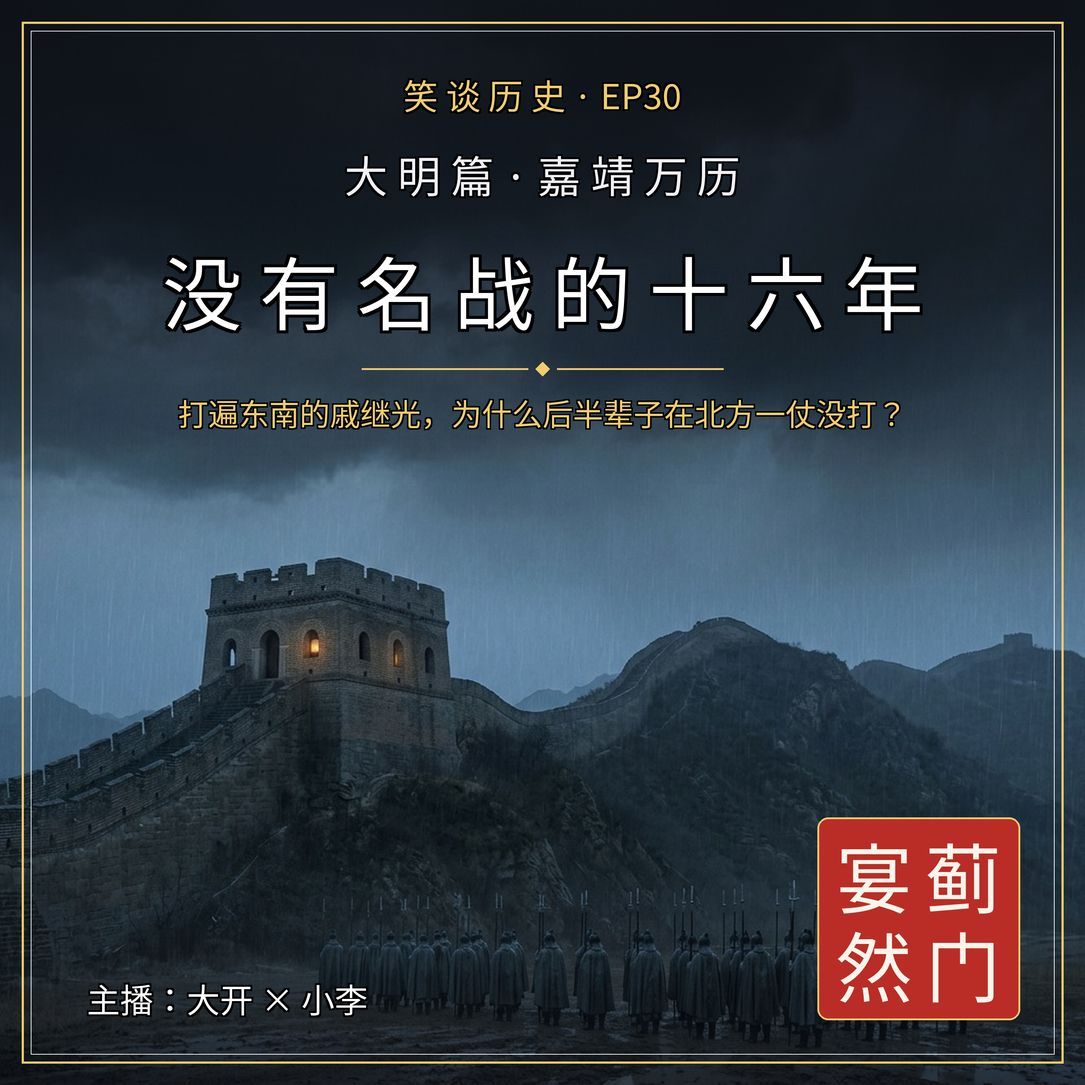
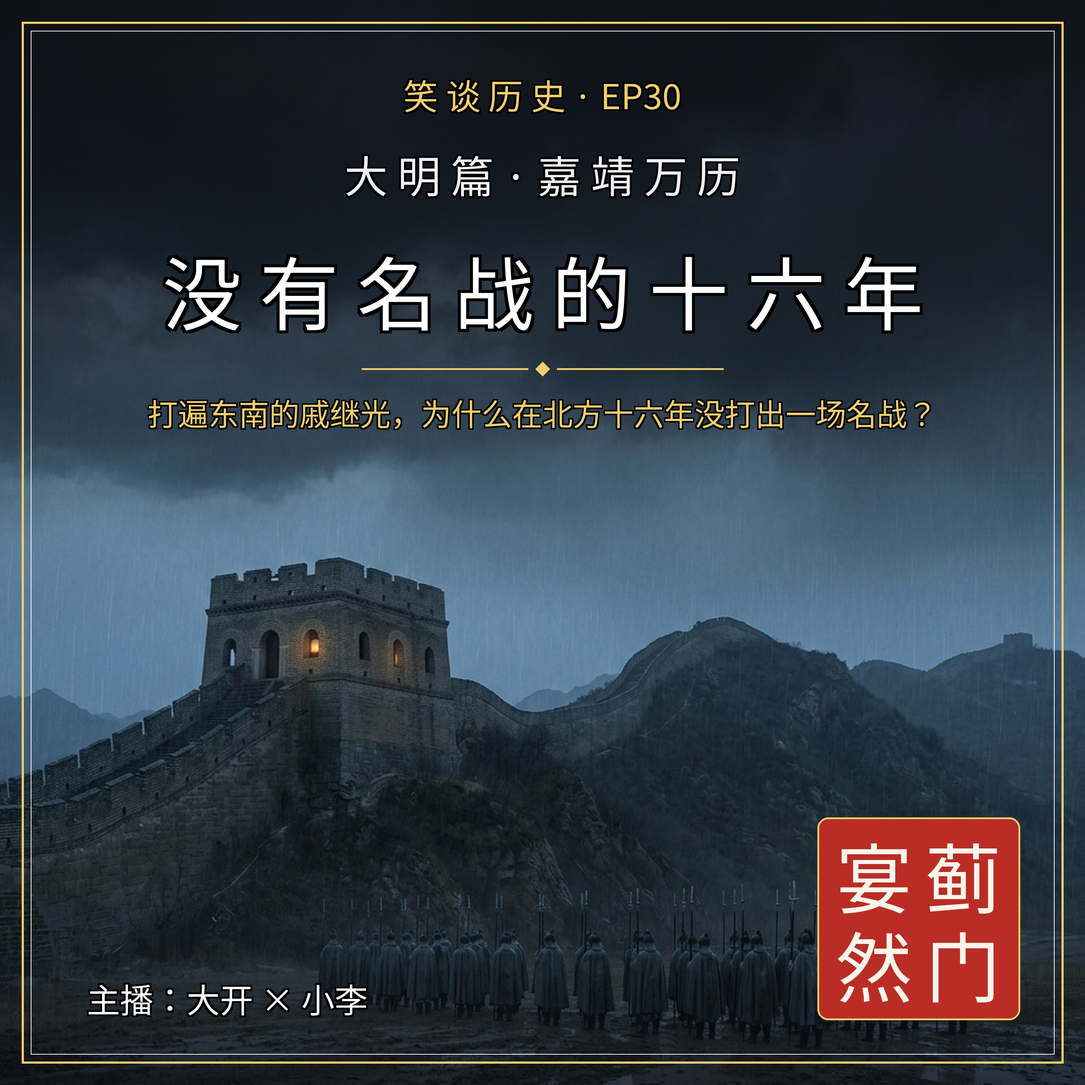
EP30 对抗审稿修订：主标题改为“没打出一场名战”并重出封面；王世贞—《明史》取材关系改为“未采”口径；墓志王氏离去与延医无资补立场、时序与连写因果；庚戌守九门降级

Changed region(s): [[0.124, 0.341, 0.868, 0.403]]

diff --git a/podcasts/EP30_戚继光/make_cover.py b/podcasts/EP30_戚继光/make_cover.py
@@ -96,7 +96,7 @@ def main():
     d.line([W//2+40, 1020, W//2+500, 1020], fill=GOLD, width=5)
     d.polygon([(W//2, 1000), (W//2+20, 1020), (W//2, 1040), (W//2-20, 1020)], fill=GOLD)
     
-    draw_text_with_shadow(d, (W//2, 1140), "打遍东南的戚继光，为什么后半辈子在北方一仗没打？", f_sub, GOLD, offset=4)
+    draw_text_with_shadow(d, (W//2, 1140), "打遍东南的戚继光，为什么在北方十六年没打出一场名战？", f_sub, GOLD, offset=4)
     
     # Bottom elements
     draw_text_with_shadow(d, (240, H - 240), "主播：大开 × 小李", f_host, WHITE, anchor="lm", offset=5)

diff --git a/podcasts/EP30_戚继光/史料核对.md b/podcasts/EP30_戚继光/史料核对.md
@@ -21,7 +21,7 @@
 | 2 | 生年：《墓志铭》记“戊子闰朔”生，即嘉靖七年（1528）闰十月初一；《年谱》卷十二记万历十五年“家严六十岁”（虚岁） | 《墓志铭》；《年谱》卷十二 | 墓志 / 年谱 | 可说生于1528年。卒时虚岁六十、周岁五十九 |
 | 3 | 课本熟脸：诗《韬钤深处》末两句“封侯非我意，但愿海波平”；《马上作》“南北驱驰报主情……一年三百六十日，多是横戈马上行” | 维基文库《韬钤深处》《马上作》（戚继光） | 诗作 | 可引诗句（诗句不算对话，可直接念）。《马上作》写作年份未核，不说是哪一年写的 |
 | 4 | 东南战功：练义乌兵三千，戚家军名闻天下；嘉靖四十年台州九战皆捷；四十一年入闽破横屿、牛田、兴化；四十二年平海卫之战先登，代俞大猷为总兵 | 《明史·戚继光传》 | 正史 | 只做背景，一两句带过，课本已讲烂 |
-| 5 | 庚戌之变（嘉靖二十九年，1550）：俺答兵临京师。《墓志铭》称这一年戚继光正在京城“待试武闱”，被部署守城、“戍九门”，并条陈守备便宜 | 《墓志铭》（文字有缺）；俺答犯京师见《明史·戚继光传》“自嘉靖庚戌俺答犯京师，边防独重蓟” | 墓志 / 正史 | 戚继光本人在场只见墓志，台词须说“据他朋友汪道昆写的墓志铭”。当时约二十二岁（周岁） |
+| 5 | 庚戌之变（嘉靖二十九年，1550）：俺答兵临京师。《墓志铭》称这一年戚继光正在京城“待试武闱”，敌大入，兵部“部列城守，简材官戍九门”，戚继光“条上便宜，部当其议”（2026-10-13 审稿复核：原文是兵部选材官守九门，没有明说戚继光本人守城门） | 《墓志铭》（文字有缺）；俺答犯京师见《明史·戚继光传》“自嘉靖庚戌俺答犯京师，边防独重蓟” | 墓志 / 正史 | 戚继光本人在场只见墓志，台词须说“据他朋友汪道昆写的墓志铭”。**只说他在京城、给兵部上了守城建议并被采纳**，不说他亲自守城门。当时约二十二岁（周岁） |
 | 6 | 蓟镇的分量：庚戌以后边防独重蓟镇，增兵益饷，骚动天下；总督王忬、杨选都因失律被杀；十七年间换了十位大将，“率以罪去” | 《明史·戚继光传》 | 正史 | 可直说。这是戚继光到任前的基准线，供小李算账 |
 | 7 | 隆庆元年给事中吴时来请召俞大猷、戚继光专训边卒，部议只用戚继光；隆庆二年五月以都督同知总理蓟州、昌平、保定三镇练兵事 | 《明史·戚继光传》；《明史·谭纶传》卷222 | 正史 | 可直说 |
 | 8 | 到任上疏：蓟门之兵虽多亦少，列“七害”（壮者给将领当差、老弱充数，参将游击成了驿使，营垒成了客栈，家丁盛而军心离等）及“不练之失六、虽练无益之弊四” | 《明史·戚继光传》 | 正史 | 可挑两三条转述，不要念全文 |
@@ -31,7 +31,7 @@
 | 12 | 隆庆五年秋敌台工成，精坚雄壮，二千里声势联接，诏予世荫 | 《明史·戚继光传》 | 正史 | 可直说 |
 | 13 | 《墓志铭》称修台官府只拨了约十万（缗），按工料算值一百二十万 | 《墓志铭》（文字有讹） | 墓志 | **只作参考，不入台词**或说成“他的朋友说花得很省”。数字不可报 |
 | 14 | 车营：一车四人推挽，战时结方阵，马步军居中；拒马器遏骑兵冲突；寇至火器先发，近则步军持拒马与长枪、狼筅推进，寇退则骑兵追击；另设辎重营；南兵为选锋。蓟门军容遂为诸边之冠 | 《明史·戚继光传》；《年谱》卷十二万历十年所附车营兵马数目 | 正史 / 年谱 | 可直说。年谱里的兵马数字是规划表，不报 |
-| 15 | 北方确有战斗：万历元年春，朵颜董狐狸、长昂到喜峰口索赏不得，杀掠诱敌，戚继光掩击，几乎擒获董狐狸；夏犯桃林、界岭，官军斩获颇多；次年春擒获长秃（董狐狸之弟），二部率亲族三百人叩关请罪，董狐狸穿素衣叩头求赦，受降后许通贡如故。“终继光在镇，二寇不敢犯蓟门” | 《明史·戚继光传》 | 正史 | **红线**：标题说“一仗没打”是修辞，台词必须交代打过这些小仗；准确说法是没有一场大会战、没有一场能写进课本的名战 |
+| 15 | 北方确有战斗：万历元年春，朵颜董狐狸、长昂到喜峰口索赏不得，杀掠诱敌，戚继光掩击，几乎擒获董狐狸；夏犯桃林、界岭，官军斩获颇多；次年春擒获长秃（董狐狸之弟），二部率亲族三百人叩关请罪，董狐狸穿素衣叩头求赦，受降后许通贡如故。“终继光在镇，二寇不敢犯蓟门” | 《明史·戚继光传》 | 正史 | **红线**：标题已改为“没打出一场名战”（2026-10-13 审稿），台词必须交代打过这些仗（另有隆庆年间“寇入青山口，拒却之”）；准确说法是没有一场大会战、没有一场能写进课本的名战 |
 | 16 | 也有失利：炒蛮入犯，参将汤克宽战死，戚继光被劾，未获罪；土蛮犯辽东，戚继光赴援，与辽东军拒退之 | 《明史·戚继光传》 | 正史 | 可直说，保持诚实 |
 | 17 | 正史给的“没有名战”的解释：蓟门守得太固，敌人无从进入，全部转去辽东，所以战功归了李成梁；戚继光“在南方战功特盛，北则专主守” | 《明史·戚继光传》 | 正史 | **全期核心证据**，可直说 |
 | 18 | 对照：李成梁力战却敌，功多至封伯；戚继光官至左都督，加太子太保、少保 | 《明史·张居正传》卷213；《明史·戚继光传》 | 正史 | 小李可以算这笔账：一个封了爵，一个没有。李成梁封宁远伯的年份本表未核，不报 |
@@ -41,7 +41,7 @@
 | 22 | 戚继光自己的说法（万历十五年建孝思祠祝文）：练兵八年后，将士有死心，车营可联营数十里；他计划出塞或援辽，上报政府，政府不主张；敌人也始终不犯蓟，于是“徒有封拜之具，无可措手之会”；批评者把他看作“权党” | 《年谱》卷十二，万历十五年七月孝思祠祝文 | 年谱（戚继光本人文字，家属收录） | 可转述，点明是他晚年写给祖宗的祝文。**这是全期标题问题的当事人答案** |
 | 23 | 另一面印证：《墓志铭》说戚继光曾上辅兵议，张居正以征伐当出自天子、皇帝年幼为由搁置；幼子戚兴国跋语也说其父本想练兵出塞，因朝议以神宗冲龄为由中止 | 《墓志铭》；《年谱》卷十二戚兴国跋 | 墓志 / 年谱 | 两条都出自戚家与友人一方，台词说“戚家和他的朋友都这么说”，不说成定论 |
 | 24 | 《明史》：戚继光在镇十六年，边备修饬，蓟门宴然；继任者沿用其成法，数十年无事；这也有赖徐阶、高拱、张居正先后倚任，张居正尤其事事与他商量，想为难他的人往往被调走；督抚谭纶、刘应节、梁梦龙都与他交好，动无掣肘 | 《明史·戚继光传》 | 正史 | “十六年”是按年号首尾计（隆庆二年五月到万历十一年二月，实约十四年九个月），小李可以掐出来，大开承认是虚算 |
-| 25 | **来源链**：《明史》“居正尤事与商确，欲为继光难者，辄徙之去”一句，几乎逐字见于王世贞《嘉靖以来首辅传》卷七；但王世贞原文前面还有一句：戚继光因南兵受北人嫉恨而惧，“乃时时购千金姬进之居正”。《明史》保留了后半句，删掉了前半句 | 王世贞《嘉靖以来首辅传》卷七（四库本，维基文库）；对照《明史·戚继光传》 | 笔记 / 正史 | 可作为证据链讲（《明史》采了王世贞，但删了送姬一句）。送姬一事本身**存疑**，只说有这个记载、修史者没采，不铺陈 |
+| 25 | **来源链**（2026-10-13 审稿复核原文后改写）：王世贞《嘉靖以来首辅传》卷七原文大意：戚继光移镇蓟门多带南兵，北人嫉之，“继光惧”；当时兵部尚书谭纶“与继光以财通”，谭纶“善用女术颇干居正”，张居正试之而验；“继光乃时时搆千金姬进之居正”，且所筹画多合张居正之意，“以是事与之商确，诸督抚大臣惟继光所择，欲为不利继光者即为之徙去”。《明史·戚继光传》作“居正尤事与商确，欲为继光难者，辄徙之去。诸督抚大臣如谭纶、刘应节、梁梦龙辈咸与善”。两段措辞高度相近（“事与商确”“徙之去”），且《明史·张居正传》叙小王子、李成梁一段也与《首辅传》同段相近，可推断《明史》取材于《首辅传》（可能经万斯同、王鸿绪《明史稿》转手，未核）。《明史》没有采用的是：谭纶以财相通与“女术”、送千金姬、“督抚惟继光所择”（被改写成督抚“咸与善”） | 王世贞《嘉靖以来首辅传》卷七（四库本，维基文库 https://zh.wikisource.org/wiki/嘉靖以來首輔傳_(四庫全書本)/卷7 ）；对照《明史·戚继光传》卷212、《张居正传》卷213 | 私家史传 / 正史 | 可作为证据链讲：说“《明史》这句话和王世贞的书几乎一样，但王世贞同一段里的送姬、谭纶以财相通、督抚由他挑，《明史》都没采”。**不说“修史者删了”**（无法证明是谁、在哪一稿删的），不说“逐字抄录”。王世贞与张居正有嫌隙，送姬一事本身**存疑**，不铺陈 |
 | 26 | 沈德符记：海狗肾（腽肭脐）出登州海中，张居正晚年姬侍多，专取以配药，“盖蓟帅戚继光所岁献”；张居正冬天热得戴不了貂帽，最终因此病亡 | 《万历野获编》卷二十一《滇南异产》条 | 笔记 | 红队定为荒淫八卦：**台词最多一句**，说明晚明笔记有此说、真伪存疑、正史不载；不讲药效细节 |
 | 27 | 沈德符记：张居正当国时，边将戚继光位至三孤、李成梁封五等，给张居正的禀帖都自称“门下沐恩小的某万叩头跪禀” | 《万历野获编》卷十七《武臣自称》 | 笔记 | 可用来讲依附关系，注明笔记；沈德符是讥讽口吻 |
 | 28 | 张居正嘱戚继光谦抑：万历六年张居正回江陵葬父前写信，说蓟事已托付门生梁梦龙，士大夫有说你坏话的他会替你辩解；要他务从谦抑、勿争体面、南北军情务须调适；并说鸟铳手挑矫健者五六人随行即可。另一信说戚继美所送锦帐收下为母祝寿，其余礼物退还 | 张居正《答蓟镇总兵戚南塘计边事》（书牍十）；《答总兵戚南塘》其二（书牍十） | 书信 | 可转述。退礼一信可作为与送姬说法的对照，但只能说明这一次退了礼，不能证明从未收礼 |
@@ -52,8 +52,8 @@
 | 33 | 广东任上：引退疏称广东兵权尽归有司，补一兵、造一械都由文官，将领不得干涉；万历十三年获准引退，冬十月回到蓬莱故里，对亲友说如今北虏款塞、南交来庭，太平无事，哪里还用得着武臣 | 《年谱》卷十二万历十三年条 | 年谱 | 可转述，注明年谱 |
 | 34 | 罢归后：御史傅光宅上疏推荐，反被夺俸；《年谱》说朝议正欲起用、疏方上，他就病了 | 《明史·戚继光传》；《年谱》卷十二万历十五年条 | 正史 / 年谱 | 可直说 |
 | 35 | 王氏早年：戚继光妻王氏出身王万户家（《墓志铭》“内子出王万户”）；初袭职时家贫，买一条鱼，早上给他鱼头、中午给他鱼尾，自己一口不吃，晚上把鱼腹留给他；他说你饿着肚子成全我，甘苦怎能不同，她说妾逸君劳、君良妾苦，礼当如此。戚继光把她比作孟光 | 《墓志铭》 | 墓志 | 可转述，注明出自墓志铭。网文“自己只吃鱼头鱼尾”是误读，原文是把头尾也让给了丈夫，见第三节 |
-| 36 | **王氏离去（复核点结论）**：王氏所生儿子都夭折；戚继光暗纳陈姬（生祚国、安国、报国）、沈姬（生昌国）、杨姬（生辅国）。有人向王氏泄露诸姬多子，她每天拿着刀要找他算账；戚继光衣内穿甲进入寝门，号啕着向祖宗哭诉，王氏也扔下刀抱头痛哭，于是把安国过继到自己名下。安国娶妻后夭折，王氏心灰意冷，把家中积蓄全部装车运回王家 | 《墓志铭》“一品鸷而张……囊括其所蓄，辇而归诸王” | 墓志 | **出处是汪道昆《墓志铭》，不是《年谱》**：《年谱》卷十二全卷未提王氏离去，只在祝文中说自己“先乏子，乃出奇计，苦心万状，今有五子一侄”。台词注明出自墓志铭；拿刀一段只转述一次，不渲染。杨姬之子墓志作“辅国”，《年谱》作“兴国”（万历十一年四月生），以年谱为准，台词不报名字 |
-| 37 | 晚年贫病：他每年散千金给门客，急流勇退后家计骤然衰落，到请医治病都没钱 | 《墓志铭》“岁散千金徇客，急归而暴折，即延医治病，且无资” | 墓志 | 可转述。**注意**：墓志把贫困归因于他自己好客散财，不只是朝廷亏待 |
+| 36 | **王氏离去（复核点结论）**：王氏所生儿子都夭折；戚继光暗纳陈姬（生祚国、安国、报国）、沈姬（生昌国）、杨姬（生辅国）。有人向王氏泄露诸姬多子，她每天拿着刀要找他算账；戚继光衣内穿甲进入寝门，号啕着向祖宗哭诉，王氏也扔下刀抱头痛哭，于是把安国过继到自己名下。安国娶妻后夭折，王氏心灰意冷，把家中积蓄全部装车运回王家 | 《墓志铭》“一品鸷而张……囊括其所蓄，辇而归诸王” | 墓志 | **出处是汪道昆《墓志铭》，不是《年谱》**。审稿补充（2026-10-13）：①墓志开篇自述是“胄子祚国布状”请铭，祚国是陈姬所生，王氏“鸷而张”的形象来自庶子一方提供的行状，台词须交代这是戚家（庶子）一方的说法；②墓志没有给王氏离去的年份，只是放在罢归登州之后、去世之前叙述；而《年谱》所载万历十五年七月祝文仍称“今有五子一侄”，与安国已殇的先后关系对不上，离去的确切时间**存疑**，台词不报年份、不说“瞒了十几年”；③原文是“囊括其所蓄，辇而归诸王”，是把积蓄运回王家，王氏本人是否随之离家原文未明说，台词说“把家里积蓄装车运回了娘家”。《年谱》卷十二全卷未提王氏离去，只在祝文中说自己“先乏子，乃出奇计，苦心万状，今有五子一侄”。台词注明出自墓志铭；拿刀一段只转述一次，不渲染。杨姬之子墓志作“辅国”，《年谱》作“兴国”（万历十一年四月生），以年谱为准，台词不报名字 |
+| 37 | 晚年贫病：墓志紧接王氏把积蓄运回王家之后写：他每年散千金给门客，仓促罢归后家计骤然衰落，到请医治病都没钱 | 《墓志铭》“囊括其所蓄，辇而归诸王。少保岁散千金徇客，急归而暴折，即延医治病，且无资” | 墓志 | 可转述。**注意**（2026-10-13 审稿修订）：墓志是三件连写——积蓄被王氏运走、他自己好客散财、仓促罢归——不只是朝廷亏待，也不能单归因于散财或单怪王氏。《明史》不载其贫；《年谱》戚兴国跋另说他死于消渴（“食少事繁，劳神太甚，致消渴之恙以终”） |
 | 38 | 去世：万历十五年十二月，蜡日（一说腊月初八，一说冬至后第三戌日即十二月二十日）前一天病作，鸡叫三遍时去世；《年谱》说家人请他交代后事，他一言不发 | 《墓志铭》“丁亥始及耆蜡，日鸡三号”；《年谱》卷十二 | 墓志 / 年谱 | 日期只说万历十五年腊月、公历已是1588年初；具体哪一天存疑 |
 | 39 | 身后：万历十七年二月戚祚国入京请恤，诏准祭葬；《墓志铭》称应得的荫子记录被经手的旧记室侵吞，诸子只袭祖职指挥佥事 | 《年谱》卷十二万历十七年条；《墓志铭》 | 年谱 / 墓志 | 可一句带过 |
 | 40 | 余波：幼子戚兴国（万历十一年生，五岁丧父）于庚申年（1620）写跋，说抗倭的功劳是横草熟釜之功，北边的功劳是曲突徙薪之业；一千二百座敌楼、二千里塞垣，到今天五十多年朝廷没有北顾之忧，未有敌楼之前敌骑曾直入渔阳、突古北口逼近京城 | 《年谱》卷十二戚兴国跋 | 年谱 | **结尾可用**，注明是儿子写的 |
@@ -63,7 +63,7 @@
 
 ## 二、存疑与冲突（两说并陈）
 
-1. **“一仗没打”是不是真的**：不是。《明史》记了万历元年喜峰口掩击董狐狸、擒长秃、炒蛮入犯汤克宽战死、援辽等（#15、#16）。准确说法：北方十六年没有大会战，《明史》原话是“北则专主守”（#17）。标题可以用，台词必须修正它。
+1. **“一仗没打”是不是真的**：不是（原拟标题因此于2026-10-13改为“没打出一场名战”）。《明史》记了万历元年喜峰口掩击董狐狸、擒长秃、炒蛮入犯汤克宽战死、援辽等（#15、#16）。准确说法：北方十六年没有大会战，《明史》原话是“北则专主守”（#17）。标题已改，台词照此口径。
 2. **为什么没打大仗**：三种解释并存。
    - 《明史》：守得太固，敌人改去辽东（#17）；
    - 张居正：上级本来就要求拒守为主，贼不得入即为上功（#21）；
@@ -71,7 +71,7 @@
    三者并不矛盾，但侧重不同。大开可以说自己的倾向，小李可以抓住“到底是不能打还是不让打”追问。
 3. **戚继光和张居正的关系**：正史说倚任与庇护（#24）；王世贞说送千金姬（#25）；沈德符说岁献海狗肾、禀帖自称门下小的（#26、#27）；张居正书信里有退礼（#28）。送姬、送药两条都是与张居正有过节或隔代的晚明笔记，《明史》修史者显然读过王世贞却没采送姬一句。节目处理：依附关系是实的（书信、自称、半夜递信都有据），送姬送药存疑，各说一句不展开。
 4. **王氏离去的出处**：红队复核点“出处是年谱还是笔记”——**答：出自汪道昆《墓志铭》**，属同时代老友所撰墓志，不是笔记，可信度较高；家属所编《年谱》卷十二对此只字未提，只有戚继光本人一句“乃出奇计，苦心万状”隐约对应（#22、#36）。网传“王氏休夫”“提刀闯军营”“戚继光跪地请夫人阅兵”“杀鸡炖汤”等细节，在《墓志铭》《年谱》卷十二、《野获编》中都没有找到，见第三节。
-5. **晚年贫病的原因**：《明史》只说罢归、被荐反夺俸、遂卒；《墓志铭》说他岁散千金给门客，家计骤衰，延医无资（#37）。“两袖清风、无私报国”的说法见山东地方志网站引董承诏《戚大将军孟诸公小传》“四提将印……囊无宿镪，惟集书数千卷”（二手，未见原书）。节目说法：穷是真的，原因里有他自己好客散财的一部分。
+5. **晚年贫病的原因**：《明史》只说罢归、被荐反夺俸、遂卒；《墓志铭》先写王氏把积蓄运回王家，再写他岁散千金给门客、家计骤衰，延医无资（#37）。“两袖清风、无私报国”的说法见山东地方志网站引董承诏《戚大将军孟诸公小传》“四提将印……囊无宿镪，惟集书数千卷”（二手，未见原书）。节目说法：穷是真的（只有墓志一说），墓志列的原因里有积蓄被运走，也有他自己好客散财。
 6. **在镇年数**：《明史》《年谱》都说十六年，实际约十四年九个月（#24），按年号首尾虚算。
 7. **去世日期**：蜡日两解，相差十二天（#38）；维基百科作十二月二十日（1588年1月17日），山东地情网取腊月初八（1588年1月5日）。台词只说腊月。
 8. **雨中站立的年份**：两书未系年（#11）。

diff --git a/podcasts/EP30_戚继光/大纲.md b/podcasts/EP30_戚继光/大纲.md
@@ -1,4 +1,4 @@
-# EP30 节目大纲：《打遍东南的戚继光，为什么后半辈子在北方一仗没打？》
+# EP30 节目大纲：《打遍东南的戚继光，为什么在北方十六年没打出一场名战？》
 
 > 2026-10-13 编写。全期发现路径先行，四个段落按因果咬合。证据编号对应 `史料核对.md` 第一节序号。时长为估算（约 300 字/分钟，成片约 25 分钟，净台词约 7,000–8,000 字），不是配额。
 
@@ -18,10 +18,10 @@
      → 小李掐出两笔账：“十六年”是虚算（#24）；李成梁封了伯，戚继光没有（#18）
      → 《明史》的解释：守得太固，敌人去了辽东，战功归了李成梁，北则专主守（#17）
      → 张居正的信：贼不得入即为上功（#21）；可戚继光自己晚年说，他想出塞援辽，政府不让，徒有封拜之具（#22、#23）。
-   判断变化：“一仗没打”是不对的说法，准确是没有名战；而且这有一半是上面定下的打法。
+   判断变化：他在北方不是没打仗，是没有名战；而且这有一半是上面定下的打法。
    疑问：谁在替这种拿不出首级的人担保？
    ↓
-[三] 张居正怎么护着他：想为难他的人被调走（#24）→ 这句话从哪来：王世贞原文前面还有送千金姬一句，《明史》删了（#25）；沈德符的海狗肾一句带过（#26）
+[三] 张居正怎么护着他：想为难他的人被调走（#24）→ 这句话从哪来：措辞和王世贞《嘉靖以来首辅传》高度相近，王世贞原文还有谭纶以财相通、戚继光送千金姬、督抚由他挑选，这些《明史》都没采（#25）；沈德符的海狗肾一句带过（#26）
      → 关系有多近：禀帖自称门下小的（#27）、葬父前专门写信安排、只要五六个鸟铳手（#28）、半夜开门递信（#29）
      → 小李与大开的分歧：自己把自己绑死，还是体制里做事的唯一办法
      → 张居正死后半年，张鼎思一言，调广东（#30）；裨将流言、蓟人罢市送行（#31，年谱）；《明史》赞语：当国者在则成，言官当道则废（#32）。
@@ -41,7 +41,7 @@
   1. 自己掐出隆庆二年到万历十一年不满十五年，“十六年”是虚算；
   2. 算出李成梁封伯、戚继光没封，说“封侯非我意”这句诗后来成了真；
   3. 听到禀帖自称门下小的、半夜递信，认为他是自己把自己绑在了张居正的船上，换个首辅就该沉；
-  4. 王氏的事站王氏一边：瞒了十几年、生了五个儿子，换谁都会走。
+  4. 王氏的事站王氏一边：丈夫背着她纳了三个妾、生了五个儿子，换谁都受不了；她还会提醒，墓志的材料来自妾生的长子戚祚国，王氏被写成“鸷而张”，是对方的说法（#36）。
 - **不强行统一的分歧**：依附张居正是不得已的做事成本，还是戚继光自己的选择和失算。结尾不判对错。
 
 ## 第一段：长城边上的雨（约 0:00-6:00）
@@ -56,7 +56,7 @@
 ## 第二段：没有名战的账本（约 6:00-13:00）
 - 敌台：一瑕则百坚皆瑕，五丈三层百人，先建一千二百座（#10）；浙兵就是为这个调来的，回扣冷开场；隆庆五年秋台成（#12）。
 - 车营：车四人推、结方阵、火器先发、拒马长枪、骑兵追击（#14），只讲个大概。
-- 打过的仗（#15、#16）：大开主动修正“一仗没打”。
+- 打过的仗（#15、#16）：大开主动交代北方也打过仗，只是没有一场名战（扣标题）。
 - 小李掐账：十六年是虚算（#24）；李成梁封伯（#18）。
 - 《明史》的解释（#17）+ 八事考核（#19）；墓志说不战无从记功（#20，注明文字残缺）。
 - 张居正的信：贼不得入即为上功，援辽非急（#21）。
@@ -64,7 +64,7 @@
 
 ## 第三段：靠山（约 13:00-20:00）
 - 《明史》：张居正事事与他商量，想为难他的人就调走（#24）。
-- 证据链：这句话几乎原样抄自王世贞，王世贞前面还有送千金姬一句，修史者删了（#25）；沈德符另有一条岁献海狗肾的笔记，一句带过、存疑（#26）。
+- 证据链：这句话和王世贞《嘉靖以来首辅传》措辞高度相近，应是取材于它（可能经《明史稿》转手）；王世贞原文把这层关系归因于谭纶以财相通、戚继光时时送千金姬，还说督抚由戚继光挑选，《明史》一概没采，并把“惟继光所择”换成了“咸与善”（#25，只说“修史者没采”，不说“删了”）；沈德符另有一条岁献海狗肾的笔记，一句带过、存疑（#26）。
 - 关系有多近：门下沐恩小的（#27）；张居正嘱他谦抑、南北调和、葬父前安排梁梦龙、只要五六个鸟铳手、退了礼只收锦帐（#28）；抄家时被审问的半夜递信（#29）。
 - **分歧**：小李认为是自己绑死自己；大开认为这是体制下做事的成本，代价他自己付了。不统一。
 - 张居正卒（EP06 已讲，一句话）；半年后张鼎思上言，调广东（#30）；年谱说是旧部流言，蓟人罢市送行（#31）。
@@ -75,7 +75,7 @@
 - 鱼的故事（#35），带出王氏。
 - 王氏离去（#36）：出处交代清楚是汪道昆写的墓志铭；拿刀一段只转述一次；小李站王氏一边，大开不替戚继光辩护。
 - 传说溯源一句：网上怕老婆段子多数找不到出处（第三节）。
-- 散千金、延医无资（#37）；傅光宅荐反夺俸（#34）。
+- 积蓄被王氏运走、他自己每年散千金给门客、罢归后家计骤衰，到请医生都没钱（#37，墓志是把这几件连着写的，不单归因于哪一条）；傅光宅荐反夺俸（#34）。
 - 万历十五年腊月，鸡叫三遍，后事一句没交代（#38）。
 - 余波：小儿子五岁丧父，三十多年后写跋，曲突徙薪、五十余年无北顾之忧（#40）。
 - 停在日期上：崇祯二年十月，大清兵入大安口（#41）。不总结，不升华。

diff --git a/podcasts/EP30_戚继光/写作交接.md b/podcasts/EP30_戚继光/写作交接.md
@@ -3,7 +3,7 @@
 > 前置资料已备齐：选题卡、史料核对、大纲、封面。脚本请由新的写手按大纲动笔。
 
 ## 标题
-- 主选：《打遍东南的戚继光，为什么后半辈子在北方一仗没打？》（封面主标题为“没有名战的十六年”，印章为“蓟门宴然”）
+- 主选：《打遍东南的戚继光，为什么在北方十六年没打出一场名战？》（封面主标题为“没有名战的十六年”，印章为“蓟门宴然”。原拟“后半辈子在北方一仗没打”与史实不符，2026-10-13 对抗审稿改定）
 - 备选：《十六年没有一场名战：戚继光守了一辈子最长的岗》
 - 备选：《张居正死后半年：戚继光的北方十六年是怎么结束的》
 
@@ -11,14 +11,14 @@
 - 冷开场是三千浙兵在蓟镇城外的大雨里站了大半天。要先讲明白，这是《明史·戚继光传》的写法，年份不报。
 - 让小李自己算账：“十六年”其实不满十五年；李成梁封了伯，戚继光没有。
 - 三种解释并讲为什么没有名战：《明史》说守得太固、敌人改去了辽东；张居正写信说贼进不来就是头功；戚继光晚年给祖宗写的祝文里说，他想出塞援辽，朝廷不批，手里有封爵的本事，没有下手的机会。
-- 证据链：《明史》里张居正替他调走对头那句，是从王世贞书里抄来的；王世贞那句前面还有送千金姬的半句，修史者删了。
+- 证据链：《明史》里张居正替他调走对头那句，和王世贞《嘉靖以来首辅传》措辞高度相近，应是取材于它；王世贞原文还有谭纶以财相通、戚继光时时送千金姬、督抚由他挑选几层，《明史》都没采。台词说“修史者没采”，不说“删了”（可能经《明史稿》转手，无法证明是谁删的）。
 - 落点：小儿子写的跋，把父亲北边的功劳叫作曲突徙薪，说五十多年朝廷没有北顾之忧。写这句话九年后，大清兵从蓟镇的大安口进来。只报日期，不评论。
 
 ## 红线与存疑
-1. “一仗没打”是标题修辞，不是事实。台词里必须交代他在北方打过小仗：万历元年在喜峰口差点擒获董狐狸，后来擒了长秃，二部叩关请罪；也有参将汤克宽战死、他被弹劾的失利（史料核对 #15、#16）。准确说法是没有一场大会战、没有名战，《明史》原话是北则专主守。
-2. 王氏离去的出处是汪道昆写的《孟诸戚公墓志铭》，不是家属编的《年谱》，也不是笔记（#36）。台词里要说出自墓志铭。拿刀、穿甲、抱头痛哭只转述一次，不渲染；不用“休夫”“离婚”这类词，原文只说她把积蓄装车运回了王家。网上流传的怕老婆段子（请夫人阅兵、杀鸡炖汤、提刀闯军营、王氏带兵守城）没有找到原始出处，不用。
-3. 送千金姬（王世贞）、岁献海狗肾（沈德符）都是晚明笔记，真伪存疑，《明史》没采。各最多一句，标明出处，不讲细节（#25、#26）。
-4. 晚年穷困不能全怪朝廷：墓志铭写他每年散千金给门客，急流勇退后家计骤衰，到请医治病都没钱（#37）。
+1. 标题说的是“没打出一场名战”，不是没打仗。台词里必须交代他在北方打过仗：万历元年在喜峰口差点擒获董狐狸，后来擒了长秃，二部叩关请罪；也有参将汤克宽战死、他被弹劾的失利（史料核对 #15、#16）。准确说法是没有一场大会战、没有名战，《明史》原话是北则专主守。
+2. 王氏离去的出处是汪道昆写的《孟诸戚公墓志铭》，不是家属编的《年谱》，也不是笔记（#36）。台词里要说出自墓志铭；还要知道墓志的材料来自妾生的长子戚祚国提供的行状，王氏“鸷而张”是戚家一方的说法。墓志没给王氏离去的年份，只是放在罢归登州之后叙述，台词不说具体哪一年，也不说“瞒了十几年”。拿刀、穿甲、抱头痛哭只转述一次，不渲染；不用“休夫”“离婚”这类词，原文只说她把积蓄装车运回了王家。网上流传的怕老婆段子（请夫人阅兵、杀鸡炖汤、提刀闯军营、王氏带兵守城）没有找到原始出处，不用。
+3. 送千金姬（王世贞私撰《嘉靖以来首辅传》，作者与张居正有嫌隙）、岁献海狗肾（沈德符笔记）都是晚明私家记载，真伪存疑，《明史》没采。各最多一句，标明出处，不讲细节（#25、#26）。
+4. 晚年穷困不能全怪朝廷：墓志铭是连着写的，先写王氏把积蓄装车运回娘家，再写他每年散千金给门客、仓促罢归后家计骤衰，到请医治病都没钱（#37）。台词不单归因于其中任何一条。
 5. 1629 年大安口之变只报日期和地点，不说成“戚继光一走长城就破了”，中间隔了四十多年（#41）。
 6. 年份和日期：在镇“十六年”是虚算；雨中站立没有年份；去世日期只说万历十五年腊月（公历已是 1588 年初），具体哪天两说；张居正那封“贼不得入”的信写于约万历五六年（按信中“经营蓟事十年”推算）。
 7. 与 EP06 的口径：EP06 讲过张居正支持戚继光守蓟门，本期不重讲张居正的改革和抄家。EP06 台词里“张居正扣下弹劾戚继光的奏折”“戚继光开放互市”两处说法，本次没找到史料支持，本期不要重复，也不要在台词里点名纠正 EP06。

diff --git a/podcasts/EP30_戚继光/选题卡.md b/podcasts/EP30_戚继光/选题卡.md
@@ -1,4 +1,4 @@
-# 选题卡：EP30《打遍东南的戚继光，为什么后半辈子在北方一仗没打？》
+# 选题卡：EP30《打遍东南的戚继光，为什么在北方十六年没打出一场名战？》
 
 > 2026-10-13 按明朝篇批量选题（红队评审 C11，8 分）立项。事实依据与原文出处见同目录 `史料核对.md`，凡与之冲突处以史料核对为准。
 
@@ -16,7 +16,7 @@
 - **实际上的**：
   1. 他人生最长的一段差事在北方：十六年（虚算）守蓟镇，修敌台、练车营；
   2. 这十六年没有一场名战，《明史》的解释是守得太固，敌人改去了辽东，战功归了李成梁；张居正写信说，贼进不来就是头功；戚继光自己晚年却说，他有封侯的本事，没有下手的机会；
-  3. 他和张居正的关系近到禀帖自称门下小的、半夜递信；靠山一倒，他半年后就被调走，再两年罢官。家里，妻子在他晚年带着积蓄回了娘家，他死前请医生都没钱。
+  3. 他和张居正的关系近到禀帖自称门下小的、半夜递信；靠山一倒，他半年后就被调走，再两年罢官。家里，据汪道昆墓志铭，妻子王氏在过继的儿子夭折后，把家中积蓄装车运回了娘家；墓志接着写他每年散千金给门客、罢归后家计骤衰，到请医生都没钱（墓志把这段放在罢归登州之后叙述，确切年份不详）。
 - **反差的强度自评**：⭐⭐⭐⭐（课本熟脸 + 什么都没发生才是战绩 + 依附的代价）
 
 ## 核心问题（这期节目回答的一句话问题）
@@ -28,11 +28,11 @@
 - [x] **人性内核**：做成了预防的人怎么证明自己的功劳；靠一个人才能做成事，代价由谁付；英雄回到家里也有欠下的账。
 
 ## 标题候选（九型公式选优）
-1. （熟脸反转问句）《打遍东南的戚继光，为什么后半辈子在北方一仗没打？》（**主选**，红队方向；台词须修正“一仗没打”的字面意思，见史料核对#15）
+1. （熟脸反转问句）《打遍东南的戚继光，为什么在北方十六年没打出一场名战？》（**主选**。2026-10-13 对抗审稿改定：原拟“后半辈子在北方一仗没打”与《明史》所记喜峰口掩击董狐狸、擒长秃等战事不符，改为“没打出一场名战”；“十六年”取《明史》原文，系虚算，见史料核对#15、#24）
 2. （数字悬念型）《十六年没有一场名战：戚继光守了一辈子最长的岗》
 3. （人物关系型）《张居正死后半年：戚继光的北方十六年是怎么结束的》
 
-> 平台短标题建议：《戚继光的北方十六年》；封面主标题：`没 有 名 战 的 十 六 年`（避开“一仗没打”的字面绝对化）。
+> 平台短标题建议：《戚继光的北方十六年》；封面主标题：`没 有 名 战 的 十 六 年`（与主标题口径一致：没有名战，不是没打仗）。
 
 ## 印章拟定
 - **印章四字**：`蓟门宴然`（出自《明史·戚继光传》“继光在镇十六年，边备修饬，蓟门宴然”，即什么都没发生）
@@ -44,7 +44,7 @@
 
 ## 阵容配置（固定双人）
 - **主讲**：大开（交代每条记载出自谁；认为武将在明代体制里不找靠山就做不成事）
-- **主持**：小李（掐出十六年是虚算、算出李成梁封伯戚继光没有；认为半夜递信、自称门下小的是戚继光把自己绑死在张居正身上；王氏的事站王氏一边）
+- **主持**：小李（掐出十六年是虚算、算出李成梁封伯戚继光没有；认为半夜递信、自称门下小的是戚继光把自己绑死在张居正身上；王氏的事站王氏一边，并指出这段记载出自庶子戚祚国提供行状、汪道昆执笔的墓志，是戚家一方的说法）
 
 ## 冷开场方向
 - `[00:00-01:00]` 蓟镇城外，三千浙兵列阵，大雨从早上下到过了中午，队伍一动不动；北边的守军看呆了（《明史·戚继光传》、汪道昆《墓志铭》，开场点明是《明史》的记载，年份不报）。
